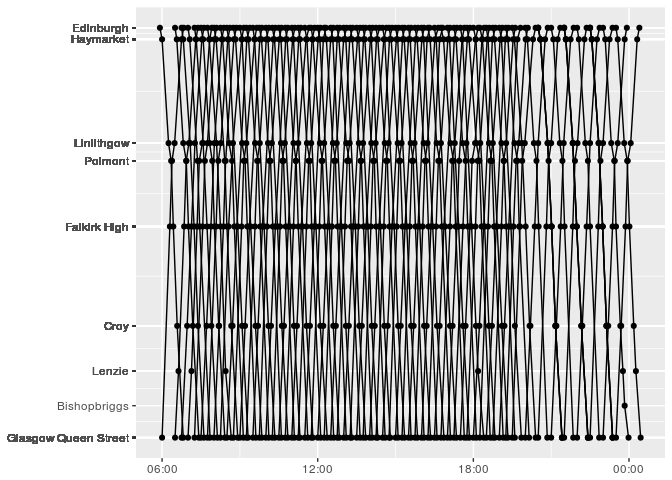
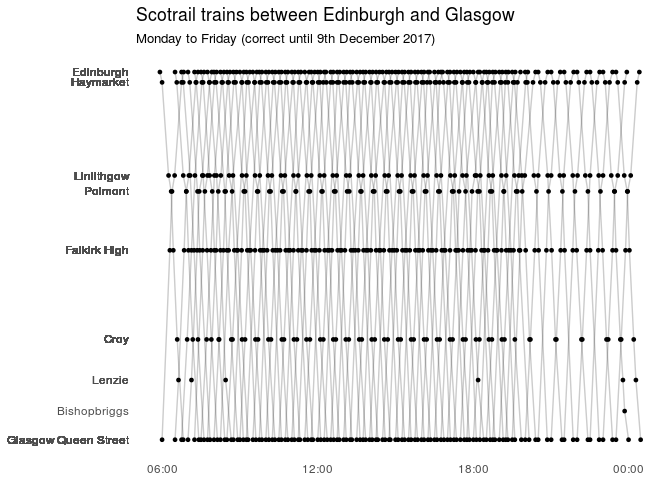
Update documentation

diff --git a/README.md b/README.md
@@ -7,7 +7,7 @@ Use stringliner to plot a recreation of E.J. Marey's graphical train schedule (a
 Example
 -------
 
-Currently this function only plots data saved in the extdata directory. Plot the Monday to Friday route between Edinburgh and Glasgow like this:
+Currently this function only plots data saved in the extdata directory. Plot the Monday to Friday route between Edinburgh and Glasgow like this (correct until 9th December 2017):
 
 ``` r
 library(tidyverse)
@@ -27,6 +27,7 @@ library(lubridate)
 #> 
 #>     date
 library(stringliner)
+
 string_line()
 #> Warning: attributes are not identical across measure variables;
 #> they will be dropped
@@ -36,3 +37,13 @@ string_line()
 ```
 
 ![](README-example-1.png)
+
+Installation
+------------
+
+Install stringliner from GitHub like this:
+
+``` r
+# install.packages("devtools")
+devtools::install_github("jsphdms/stringliner")
+```
